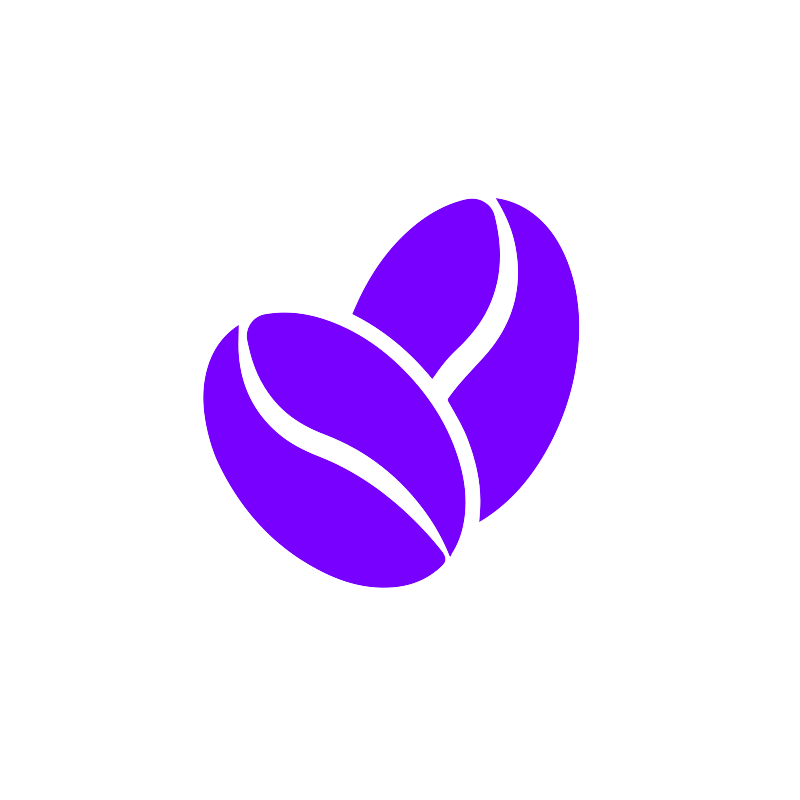
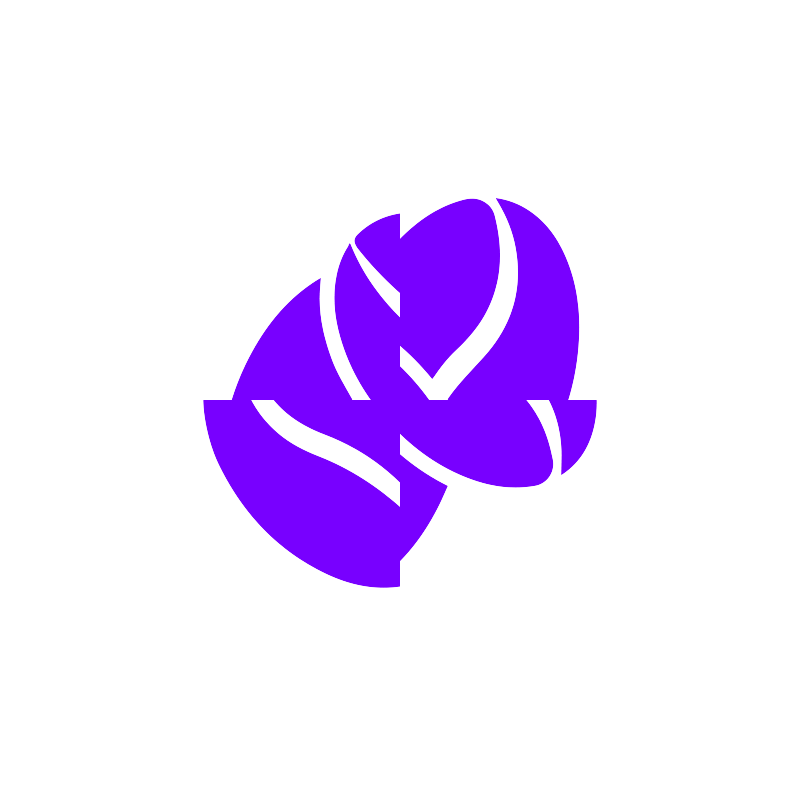
Add performance measurement and comparison for apply_flip function

Changed region(s): [[0.5, 0.5, 0.75, 0.75], [0.25, 0.25, 0.5, 0.5]]

diff --git a/test/flip.py b/test/flip.py
@@ -1,0 +1,62 @@
+from time import perf_counter
+from photoff import RGBA, CudaImage
+from photoff.operations.filters import apply_flip
+from photoff.operations.fill import fill_color
+
+def measure_flip_fps(width=1920, height=1080,
+                    color=RGBA(255, 0, 0, 255),
+                    flip_horizontal=True,
+                    flip_vertical=False,
+                    iterations=100):
+    """Mide el rendimiento (FPS) de la operación apply_flip."""
+    cuda_image = CudaImage(width, height)
+    fill_color(cuda_image, color)
+    
+    start_time = perf_counter()
+    for _ in range(iterations):
+        apply_flip(cuda_image, flip_horizontal, flip_vertical)
+    end_time = perf_counter()
+    
+    elapsed_time = end_time - start_time
+    fps = iterations / elapsed_time if elapsed_time > 0 else float('inf')
+    
+    print(f"Flip mode: {'horizontal' if flip_horizontal else ''}"
+          f"{' and ' if flip_horizontal and flip_vertical else ''}"
+          f"{'vertical' if flip_vertical else ''}")
+    print(f"Completed {iterations} flip operations in {elapsed_time:.2f} seconds.")
+    print(f"Flip FPS: {fps:.2f}")
+
+    cuda_image.free()
+    return fps, elapsed_time
+
+def compare_flip_modes(iterations=100):
+    """Compara el rendimiento entre los diferentes modos de flip."""
+    
+    print("\nTesting Horizontal Flip:")
+    h_fps, h_time = measure_flip_fps(flip_horizontal=True, flip_vertical=False, 
+                                   iterations=iterations)
+    
+    print("\nTesting Vertical Flip:")
+    v_fps, v_time = measure_flip_fps(flip_horizontal=False, flip_vertical=True, 
+                                   iterations=iterations)
+    
+    print("\nTesting Both Flips:")
+    b_fps, b_time = measure_flip_fps(flip_horizontal=True, flip_vertical=True, 
+                                   iterations=iterations)
+    
+    print("\nMode Comparison:")
+    print(f"Horizontal Flip: {h_fps:.2f} FPS")
+    print(f"Vertical Flip: {v_fps:.2f} FPS")
+    print(f"Both Flips: {b_fps:.2f} FPS")
+    
+    # Encontrar el más rápido
+    modes = {
+        'Horizontal': h_fps,
+        'Vertical': v_fps,
+        'Both': b_fps
+    }
+    fastest = max(modes.items(), key=lambda x: x[1])
+    print(f"\nFastest mode: {fastest[0]} ({fastest[1]:.2f} FPS)")
+
+if __name__ == '__main__':
+    compare_flip_modes()

diff --git a/visual_test/flip.py b/visual_test/flip.py
@@ -7,8 +7,8 @@ from typing import Annotated
 from functogui import App, imageFileReturn, fileUi
 
 def flip_ui(image: Annotated[str, fileUi] = "./visual_test/logo.png",
-           flip_horizontal: bool = False,
-           flip_vertical: bool = False) -> Annotated[str, imageFileReturn]:
+            flip_horizontal: bool = False,
+            flip_vertical: bool = False) -> Annotated[str, imageFileReturn]:
     
     path = "./visual_test/flip_test.png"
     src_image = load_image(image)
